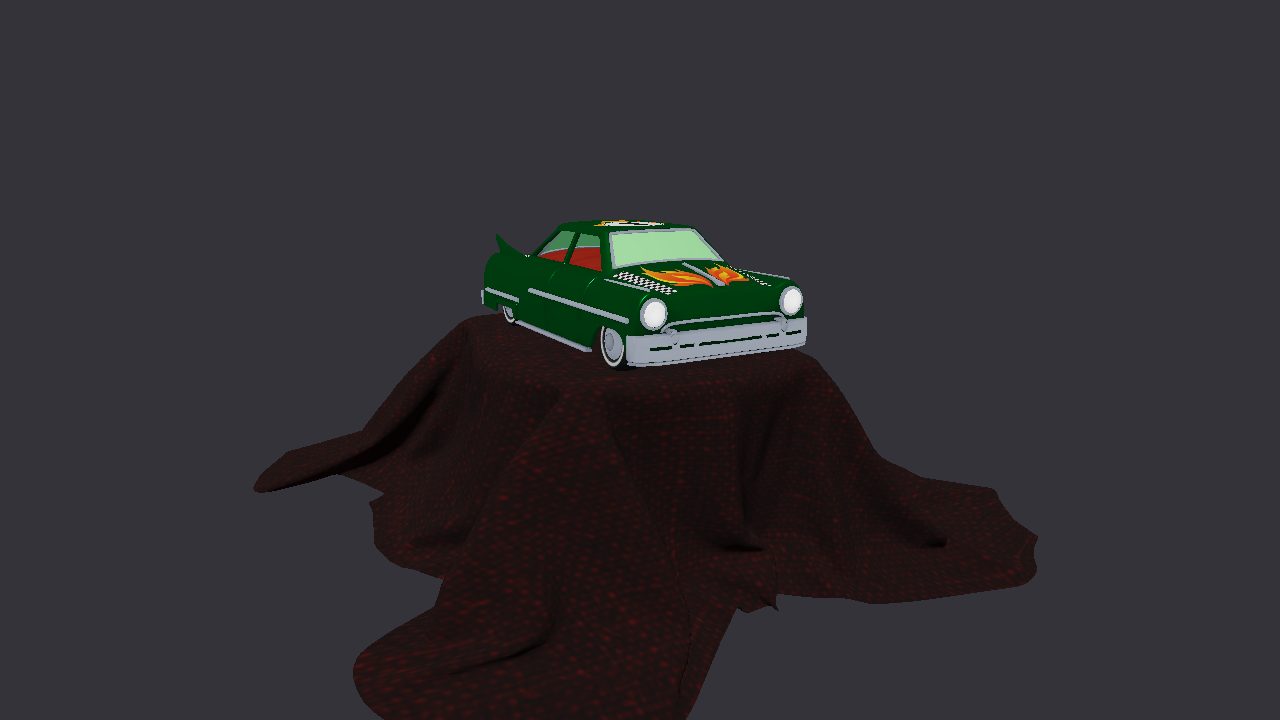
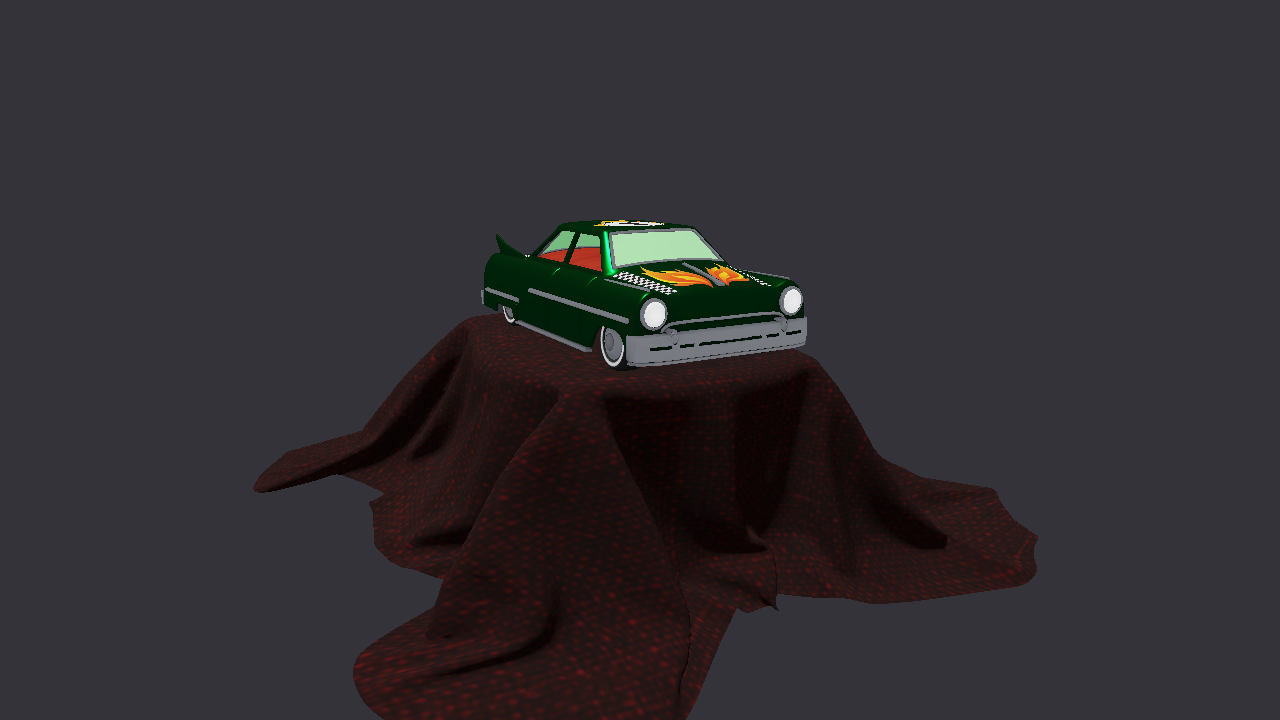
feat(render): ToyCar 影棚布光 —— 顶面主光 + 环境光（并修正金属环境漫反射）
用户要求布置摄影棚：添加顶面光与环境光。

- ToyCar 场景：主光改为**顶面光**（自上而下、略偏前，强度 2.8、暖白），
  保留影棚灰背景；车漆/红布受顶光后明暗关系更接近影棚布光
- runtime 3D 环境光：env color 0.18/0.20/0.24×1.0 → **0.27/0.28/0.31×1.6**（影棚环境光，
  作为漫反射环境项 + 粗糙度相关环境高光近似的输入）
- shader 物理修正：**环境漫反射只对电介质有效**（`×(1-metallic)`）——
  金属没有漫反射环境项，此前给金属也加环境漫反射导致粗糙度对比被压平、e2e ③ 失败；
  修正后环境光可提亮而不破坏 PBR 粗糙度区分（render3d 全绿）
- preview 重新渲染

测试：构建 0 错误；render3d_present_e2e / render3d_scene_e2e（①–⑤）全绿。

Changed region(s): [[0.375, 0.3056, 0.6562, 0.5194]]

diff --git a/modules/runtime/src/runtime.cpp b/modules/runtime/src/runtime.cpp
@@ -1502,9 +1502,10 @@ void Engine::step_frame() {
         fr.meshes = spine_meshes.data(); fr.mesh_count = (uint32_t)spine_meshes.size();
         for (int i = 0; i < 4; ++i) fr.bg[i] = bg[i];
         fr.env.sky_mode = 1;
-        fr.env.env_color[0] = 0.18F; fr.env.env_color[1] = 0.20F;
-        fr.env.env_color[2] = 0.24F; fr.env.env_color[3] = 1.0F;
-        fr.env.intensity = 1.0F;
+        /* 影棚环境光（中性偏冷、比早先 0.18/0.20/0.24 ×1.0 更亮，作为环境漫反射/镜面近似） */
+        fr.env.env_color[0] = 0.27F; fr.env.env_color[1] = 0.28F;
+        fr.env.env_color[2] = 0.31F; fr.env.env_color[3] = 1.0F;
+        fr.env.intensity = 1.6F;
         const bool direct3d = direct_present && !need_pixels;
         fr.out = direct3d ? nullptr : pixels.data();
         fr.out_size = (uint32_t)pixels.size();
